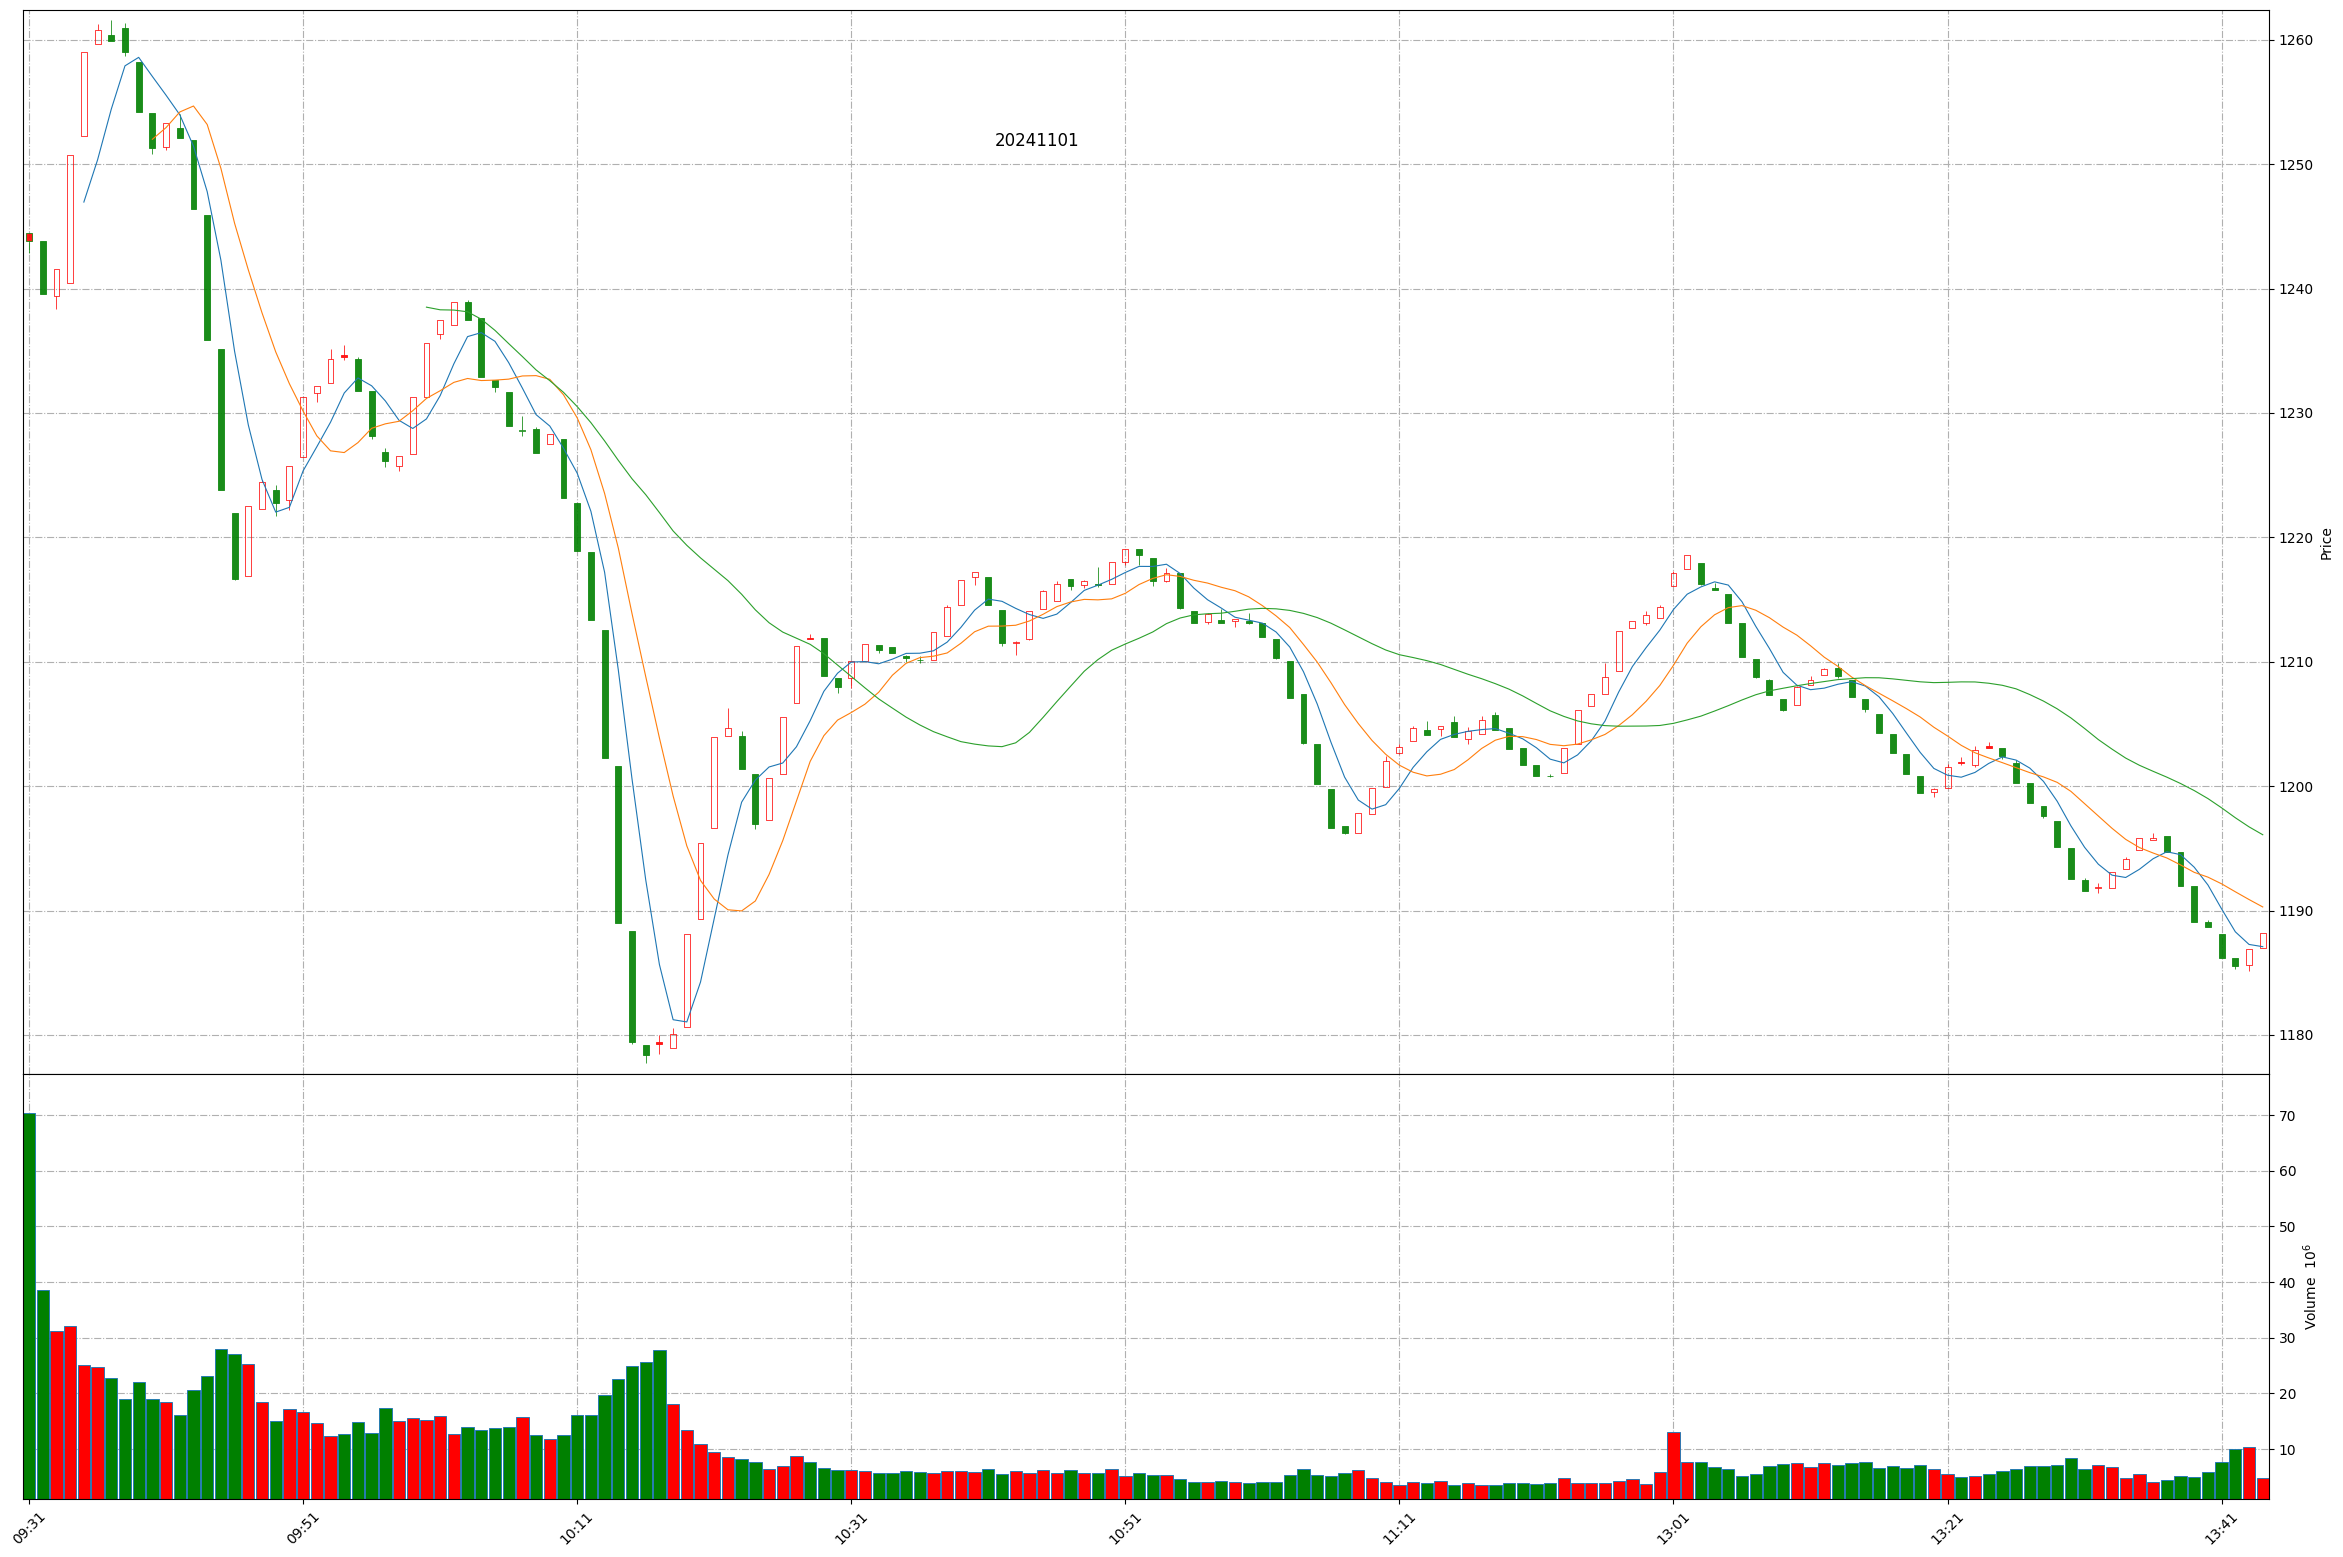
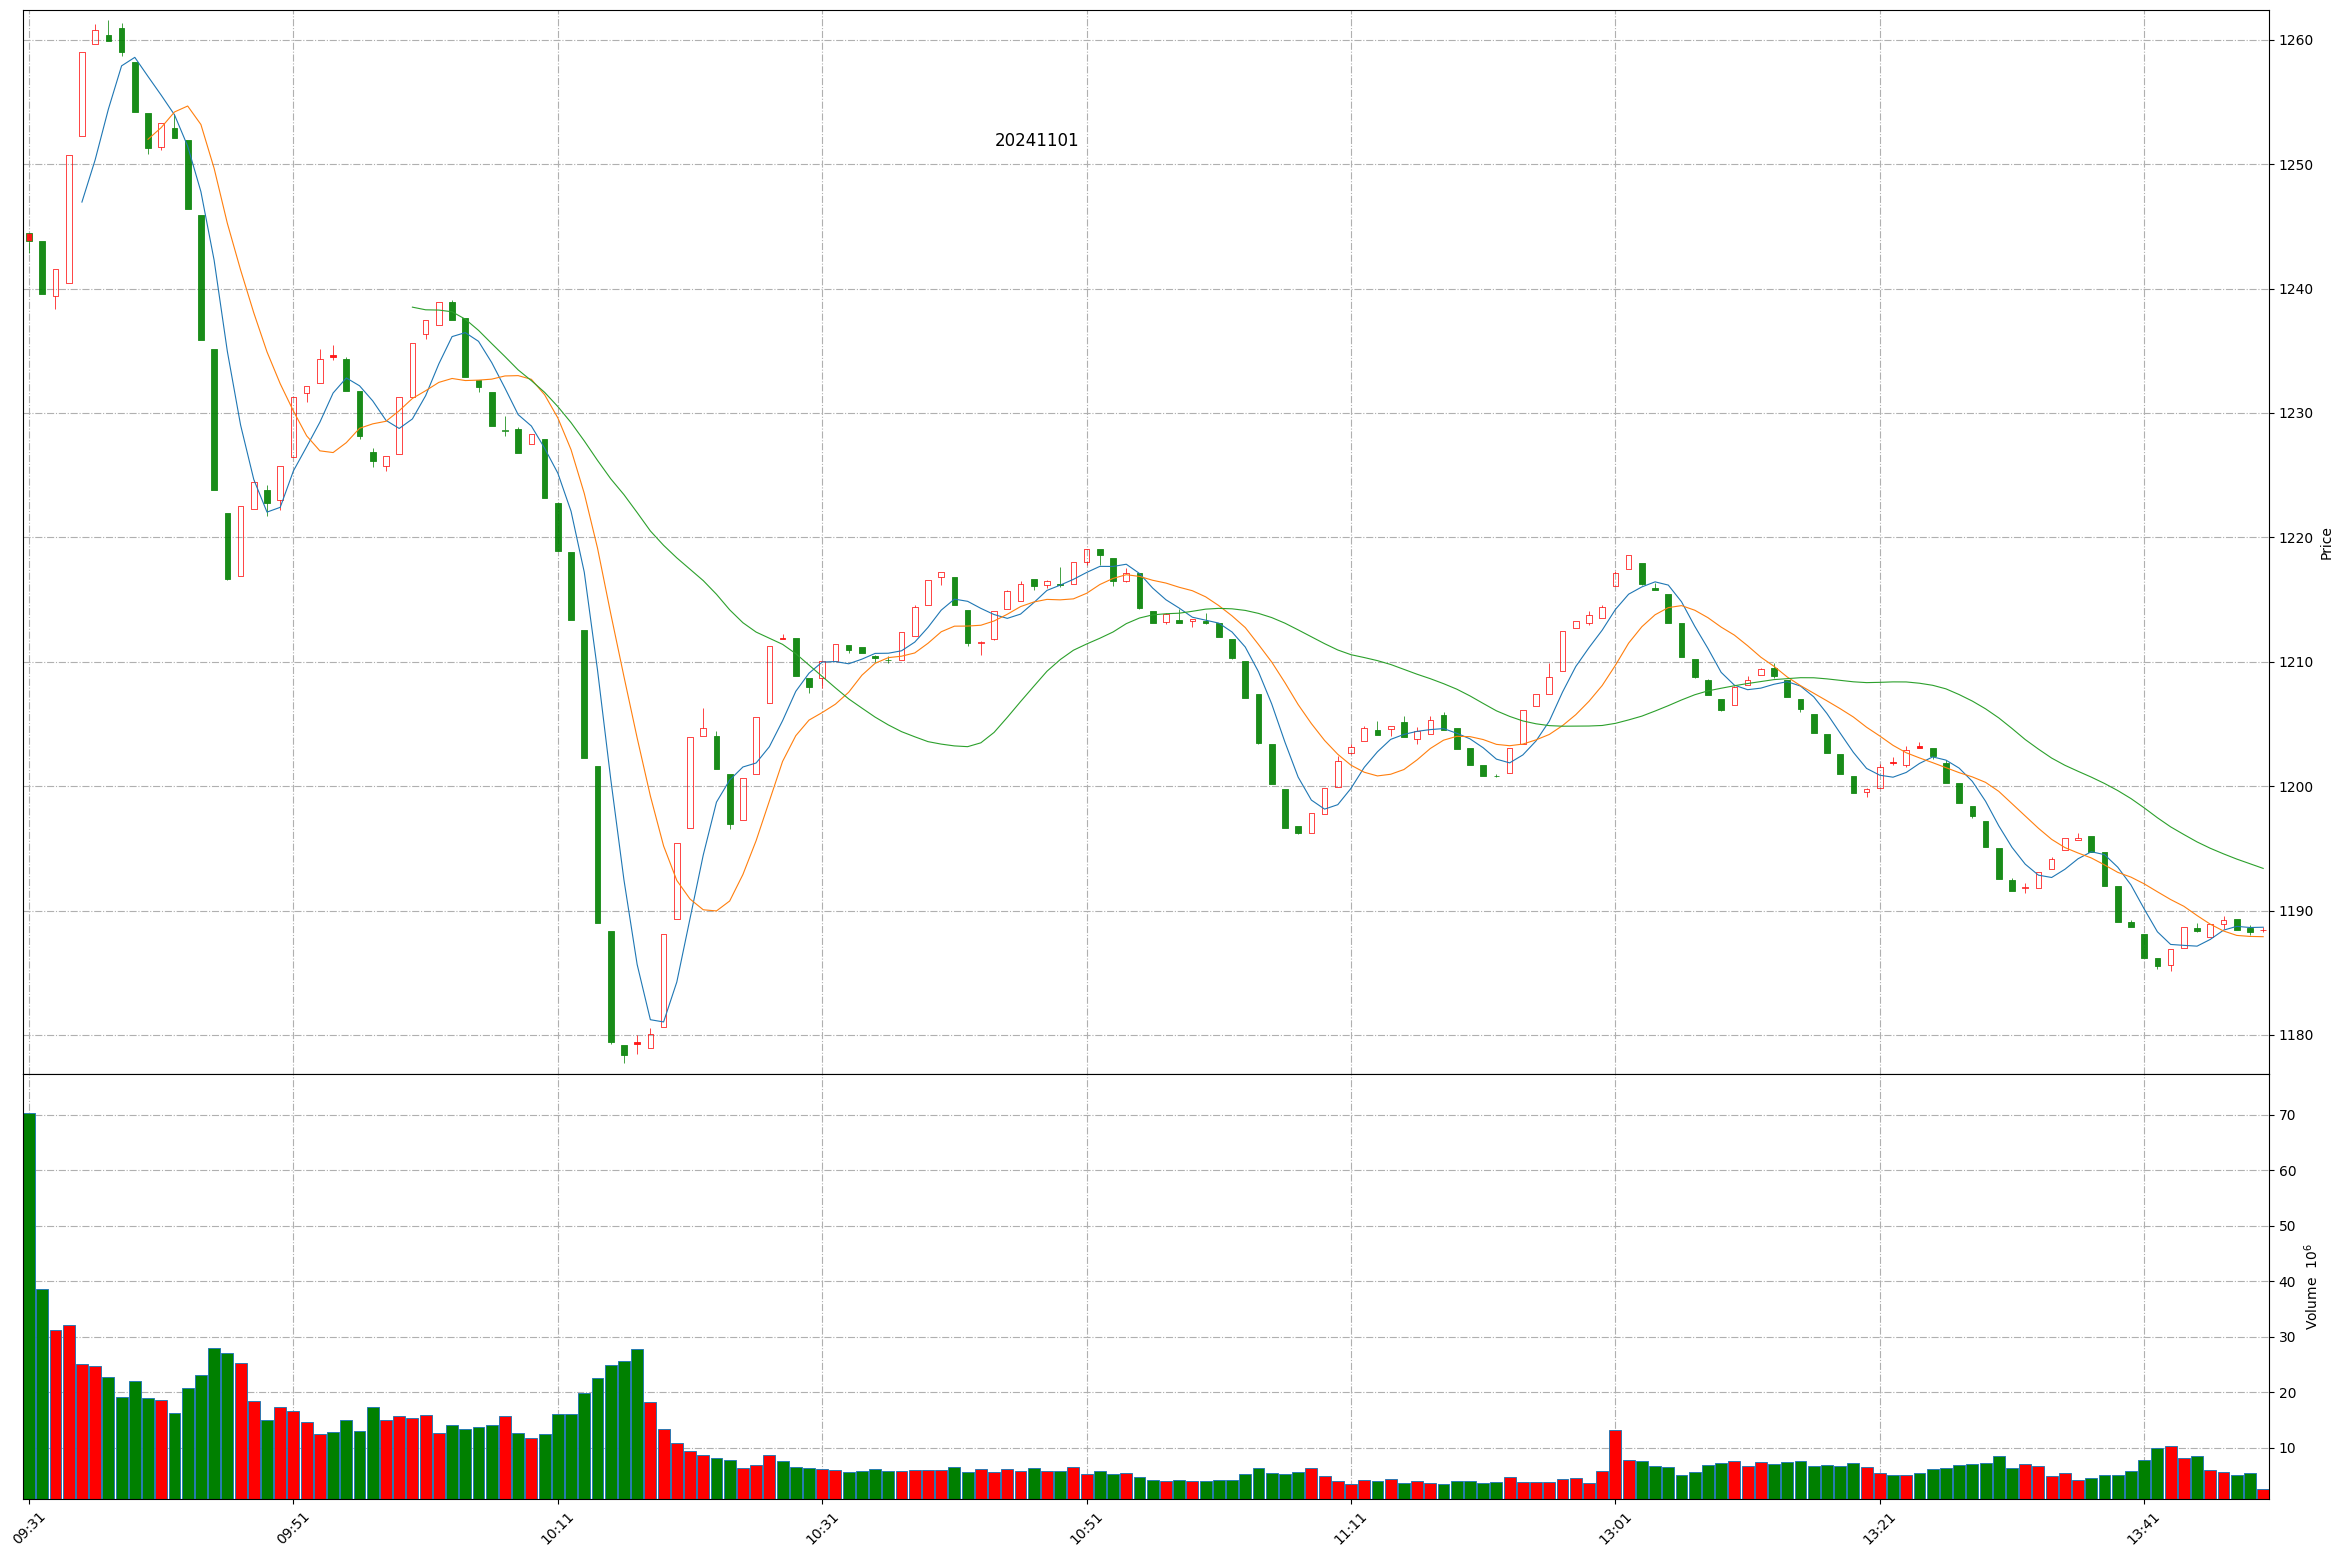
Github action update at 2024-11-01 13:49:44.

Changed region(s): [[0.0312, 0.8632, 0.9659, 0.9865], [0.0312, 0.0308, 0.3427, 0.6782], [0.3116, 0.3391, 0.9659, 0.6166]]

diff --git a/README.md b/README.md
@@ -1,11 +1,11 @@
 
 # Daily-A-share-market-quotes 每日 A 股指数（5min 更新）- 20241101
 
-### 上证指数 20241101 13:43
+### 上证指数 20241101 13:49
 ![](./fig/2024/11/20241101-sh000001.png)
 
-### 深证成指 20241101 13:43
+### 深证成指 20241101 13:49
 ![](./fig/2024/11/20241101-sz399001.png)
 
-### 北证50 20241101 13:43
+### 北证50 20241101 13:49
 ![](./fig/2024/11/20241101-bj899050.png)
